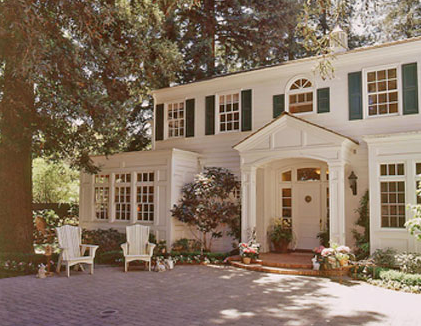
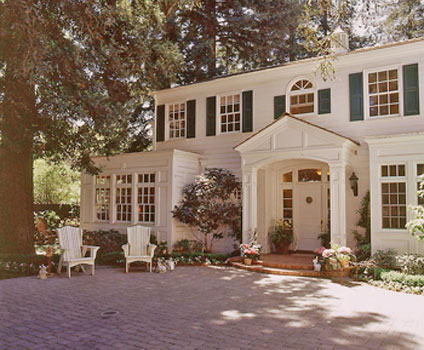
Changed MP images to original source

diff --git a/portfolio.html b/portfolio.html
@@ -628,6 +628,17 @@
 					<div class="menloParkSlides">
 						<img src="images/MP/MP-3.png" style="width:100%"> 
 					</div>
+					<div class="menloParkSlides">
+						<img src="images/MP/MP-4.png" style="width:100%"> 
+					</div>
+
+					<div class="menloParkSlides">
+						<img src="images/MP/MP-5.png" style="width:100%"> 
+					</div>
+
+					<div class="menloParkSlides">
+						<img src="images/MP/MP-6.png" style="width:100%"> 
+					</div>
 
 					<!-- Next and previous buttons -->
 					<a class="prev" id='mpPrev'>&#10094;</a>
@@ -648,6 +659,15 @@
   						</div>
   						<div class="column">
   							<img class="demo cursor9" id="mpthumb3" src="images/MP/MP-3.png" style="width:100%">
+  						</div>
+  						<div class="column">
+  							<img class="demo cursor9" id="mpthumb4" src="images/MP/MP-4.png" style="width:100%">
+  						</div>
+  						<div class="column">
+  							<img class="demo cursor9" id="mpthumb5" src="images/MP/MP-5.png" style="width:100%">
+  						</div>
+  						<div class="column">
+  							<img class="demo cursor9" id="mpthumb6" src="images/MP/MP-6.png" style="width:100%">
   						</div>
   					</div>		
 				</div>

diff --git a/js/script.js b/js/script.js
@@ -323,6 +323,15 @@ document.getElementById('menloParkTab').onclick = function(){
   document.getElementById('mpthumb3').onclick = function(){
     currentSlide(3, 'menloParkSlides', 'cursor9')
   }
+  document.getElementById('mpthumb4').onclick = function(){
+    currentSlide(4, 'menloParkSlides', 'cursor9')
+  }
+  document.getElementById('mpthumb5').onclick = function(){
+    currentSlide(5, 'menloParkSlides', 'cursor9')
+  }
+  document.getElementById('mpthumb6').onclick = function(){
+    currentSlide(6, 'menloParkSlides', 'cursor9')
+  }
 
   document.getElementById('mpPrev').onclick = function(){
     plusSlides(-1, 'menloParkSlides', 'cursor9')
